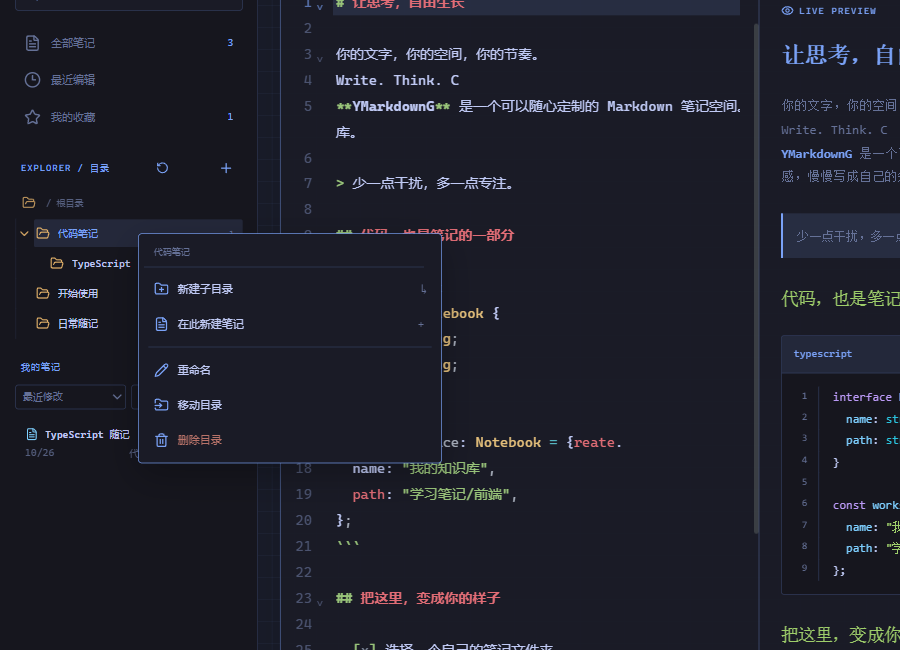
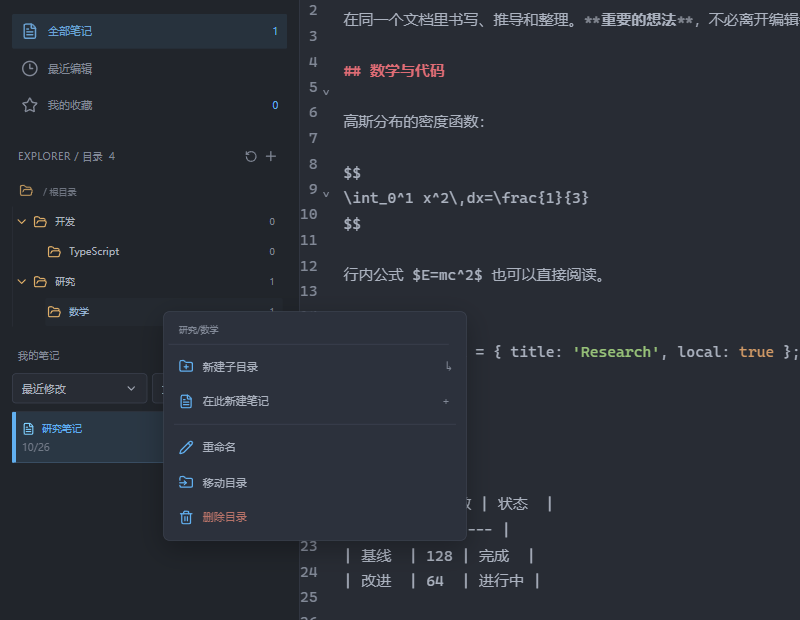
chore: prepare v0.4.0 with editor demos and image workflow docs

diff --git a/README.md b/README.md
@@ -7,7 +7,7 @@
 **让思考，自由生长。**
 
 一个可以随心定制的桌面 Markdown 笔记空间。<br/>
-Neovim 的视觉风格 · 即时预览 · 你的本地文件
+所见即所得 · 公式与代码 · 你的本地文件
 
 [![Release](https://img.shields.io/github/v/release/Okazaki-Yumemi/YMarkdownG?style=flat-square&color=7aa2f7)](https://github.com/Okazaki-Yumemi/YMarkdownG/releases/latest)
 [![Build](https://github.com/Okazaki-Yumemi/YMarkdownG/actions/workflows/release.yml/badge.svg)](https://github.com/Okazaki-Yumemi/YMarkdownG/actions/workflows/release.yml)
@@ -17,13 +17,27 @@ Neovim 的视觉风格 · 即时预览 · 你的本地文件
 
 <br/>
 
-<a href="docs/images/desktop.png"><img src="docs/images/desktop.png" width="1100" alt="真实桌面截图：本地目录、Markdown 源码、即时预览与外观设置" /></a>
+<a href="docs/images/desktop.png"><img src="docs/images/desktop.png" width="1100" alt="真实桌面截图：本地目录、Markdown 源码、公式与同步预览" /></a>
 
 <sub>真实桌面截图。代码、文字与自己的知识库，放在同一个空间。</sub>
 
 </div>
 
 ## 功能与演示
+
+### 直接编辑排版后的文档
+
+选择 **所见即所得**，直接修改标题、正文、列表和表格。输入 `$…$` 会渲染行内公式，双击公式可以修改 LaTeX。源码、分屏、阅读模式仍然保留，切换模式本身不会改写原 Markdown。
+
+<p align="center"><img src="docs/images/wysiwyg.png" width="1100" alt="真实桌面截图：所见即所得、可编辑表格、数学公式与代码" /></p>
+
+### 熟悉的主题，独立的设置
+
+内置 **One Dark Pro、GitHub Dark / Light、Dracula、Nord** 配色适配，同时覆盖界面、源码与预览高亮。设置通过齿轮或 `Ctrl / Cmd + ,` 打开，支持隐藏顶部文件栏、格式工具栏和状态栏。
+
+<p align="center"><img src="docs/images/settings.png" width="1000" alt="独立设置浮窗和常用主题配色" /></p>
+
+主题来源与许可证见 [第三方声明](THIRD_PARTY_NOTICES.md)。
 
 ### 写作，也可以很有手感
 
@@ -35,21 +49,28 @@ Neovim 的视觉风格 · 即时预览 · 你的本地文件
 
 ### 你的目录，就是笔记的目录
 
-VS Code 风格的折叠目录树，搭配可排序的文档列表与摘要卡片。右键笔记或目录即可重命名、移动或删除；拖动也能整理层级。
+左侧栏可拖动宽度，目录区限定高度并独立滚动。VS Code 风格的折叠目录树，搭配可排序的文档列表与摘要卡片。右键笔记或目录即可重命名、移动或删除；拖动也能整理层级。
 
 <p align="center"><img src="docs/images/folder-menu.png" width="760" alt="目录右键菜单：创建、重命名、移动与删除" /></p>
 
 文件以普通 `.md` 格式保留在你收录的原文件夹中，可收录多个文件夹并切换。外部新增、修改、删除会自动刷新；同时编辑时，保留磁盘版本并把本地编辑另存到“冲突副本”目录。删除文件会先保留恢复副本。
 
+### 公式、锚点和本地图片
+
+- 支持 `$…$`、`$$…$$`、`\(...\)` 和 `\[...\]` 数学公式，离线排版。
+- 分屏按 Markdown 段落位置双向同步滚动；双击预览段落跳转到源码。
+- 桌面版可直接粘贴剪贴板图片，或点击 **插入图片**。图片保存到当前 `.md` 同目录，插入相对路径，支持 PNG、JPEG、GIF、WebP。
+- 图片可在预览、所见即所得和 PDF 中显示。内部移动笔记时复制其引用的托管图片，保留原图。
+
 ### 一键导出 PDF
 
-点击编辑器右上角的 **PDF**，选择保存位置即可。使用独立的白底 A4 排版，保留中文、表格和代码高亮，自动分页；自定义写作背景不会印入 PDF。
+点击编辑器右上角的 **PDF**，选择保存位置即可。使用独立的白底 A4 排版，保留中文、公式、本地图片、表格和代码高亮，自动分页；自定义写作背景不会印入 PDF。
 
 ### 把这里，变成你的样子
 
 | 书写与阅读                    | 外观与氛围                       |
 | :---------------------------- | :------------------------------- |
-| 源码、分屏与阅读模式          | 深浅主题、自选主题色             |
+| 所见即所得、源码、分屏与阅读  | 常用编辑器主题、自选主题色       |
 | 即时渲染 Markdown             | 自定义背景，无固定体积限制       |
 | 代码高亮、行号和复制          | 图片透明度、编辑区不透明度与模糊 |
 | 搜索、大纲与快速打开          | 字体、字号、行高与页面宽度       |
@@ -68,13 +89,15 @@ VS Code 风格的折叠目录树，搭配可排序的文档列表与摘要卡片
 | macOS Intel         | `macOS-x64.dmg`                                     | 下载新版替换；同时提供 ZIP               |
 | Linux x64           | `Linux-x86_64.AppImage`，添加执行权限后运行         | AppImage 支持应用内更新                  |
 
-不需要安装 Node.js，也不需要打开浏览器。更新入口在 **外观 → 更新**，背景和动画在同一面板中调整。
+不需要安装 Node.js，也不需要打开浏览器。更新入口在 **设置 → 更新**，背景和动画在同一面板中调整。
 
 <details>
 <summary><b>常用快捷键</b></summary>
 
 | 快捷键                   | 功能               |
 | :----------------------- | :----------------- |
+| `Ctrl / Cmd + ,`         | 打开设置           |
+| `Ctrl / Cmd + Shift + T` | 切换格式工具栏     |
 | `Ctrl / Cmd + P`         | 快速打开笔记       |
 | `Ctrl / Cmd + S`         | 立即保存           |
 | `Ctrl / Cmd + B / I`     | 粗体 / 斜体        |
@@ -86,12 +109,12 @@ VS Code 风格的折叠目录树，搭配可排序的文档列表与摘要卡片
 <details>
 <summary><b>当前边界与发行说明</b></summary>
 
-- 当前参考 Neovim 视觉风格，尚未实现 Vim 模态操作或 Typora 式原位编辑。
+- 所见即所得支持常见 Markdown、表格和公式。未支持的原始 HTML 作为原文块保留；实际编辑会规范化 Markdown 格式，暂不提供 Vim 模态操作。
 - Windows 和 macOS 发行包暂未代码签名，macOS 尚未公证，该版本 macOS 更新采用手动下载。
 - 跨版本自动安装流程尚未完成真实升级的端到端验证。
 - 外部变化每约 3 秒及窗口重新获得焦点时刷新；冲突会保留双方版本，不执行逐行文本合并。
 - 当前以已收录的文件夹为管理单位，尚无 Zotero 式虚拟分类、多标签或云同步。
-- Markdown 相对路径图片尚未映射到笔记目录，PDF 同样暂不支持这些相对路径图片。
+- 本地图片仅从已收录空间内加载，支持 PNG、JPEG、GIF、WebP；不跟随符号链接，暂不支持 SVG。
 - 磁盘笔记收藏目前仅在本次打开期间保留。空间最多读取 2000 篇、24 层目录，单篇笔记上限 5 MB。
 - 完整实现和限制见 [开发文档](docs/DEVELOPMENT.md)。
 

diff --git a/.github/release-notes/v0.4.0.md b/.github/release-notes/v0.4.0.md
@@ -1,0 +1,29 @@
+## YMarkdownG v0.4.0
+
+这次更新重做编辑器工作区，加入所见即所得、数学公式和本地图片。
+
+### 编辑与排版
+
+- 新增所见即所得：直接编辑标题、正文、列表、任务列表和表格，保留源码、分屏与阅读模式。
+- 新模式保留平滑光标、拖影和输入反馈，兼容中文输入法；记住最后使用的模式。
+- 支持行内和独立 LaTeX 公式，包括 `$…$`、`$$…$$`、`\(...\)`、`\[...\]`；离线字体随软件分发，PDF 也嵌入公式字体。
+- 按段落源码锚点双向同步滚动，预览双击可定位源码，修复原先单向高度比例同步。
+
+### 工作区
+
+- One Dark Pro、GitHub Light/Dark、Dracula、Nord 配色适配，统一源码与预览高亮，附上游许可。
+- 设置改为独立浮窗，`Ctrl / Cmd + ,` 打开。顶部文件栏、格式工具栏、底部状态栏可分别隐藏。
+- 自定义下拉菜单适配主题，支持键盘操作、Escape 和点击外侧关闭；工作区菜单也支持点击外侧关闭。
+- 减少边框和留白，编辑区可使用全宽；左侧栏支持拖动调宽，目录区限定高度并独立滚动，增加清楚的文档数量。
+
+### 图片
+
+- 直接粘贴剪贴板图片，或点击“插入图片”选择文件。
+- 图片保存在当前 Markdown 同目录，正文插入相对路径；支持 PNG、JPEG、GIF、WebP。
+- 预览、所见即所得与 PDF 支持本地图片。内部移动笔记时保留其托管图片引用，退出前等待图片写入。
+
+### 下载与说明
+
+提供 Windows x64 安装版/便携版、macOS Apple Silicon/Intel DMG 与 ZIP、Linux x64 AppImage，附 SHA256SUMS。
+
+所见即所得支持常见 Markdown，不等同于完整 Typora 语法兼容；实际编辑时会规范化 Markdown，未支持的原始 HTML 作为原文块保留。当前暂不支持 SVG。发行包尚未开发者签名，macOS 未公证；自动安装升级仍未完成跨版本端到端实测。
